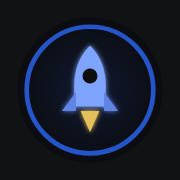
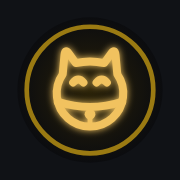
feat: Stonks becomes Maneki
The site, card and docs carry the new name and brand: the maneki-neko bell emblem as favicon, header mark and touch icon; Classic gold in the Gilded style (a metallic gradient for primary actions, gold text on dark, a warm ivory light theme with gold text at 4.6:1); conviction dots in plain ink so gold keeps its meaning on the Buy up to level. Colour meanings on the dashboard are unchanged.

Ready for the repo rename (stonks -> maneki, stonks-data -> maneki-data): the pipeline finds the data repo as ../maneki-data or, in an environment that still clones the old name, ../stonks-data; MANEKI_DATA_DIR and STONKS_DATA_DIR both work. Kept on purpose, with comments: the storage keys (devices stay unlocked), the encryption check value and the STONKS_DASHBOARD_KEY variable.

Claude-Session: https://claude.ai/code/session_01UvKpmv3rzbh6sJ3ikqRtiU

Changed region(s): [[0.1111, 0.1111, 0.8889, 0.8889]]

diff --git a/site/src/App.tsx b/site/src/App.tsx
@@ -38,9 +38,9 @@ function Lock({ keyinfo, onUnlock }: { keyinfo: KeyInfo; onUnlock: (key: CryptoK
   return (
     <div className="mx-auto mt-6 grid max-w-5xl items-center gap-10 lg:mt-16 lg:grid-cols-[1fr_22rem]">
       <div>
-        <img src={mark} alt="" className="mb-6 h-28 w-28 drop-shadow-[0_0_36px_rgba(126,164,255,0.45)] lg:h-36 lg:w-36" />
+        <img src={mark} alt="" className="mb-6 h-28 w-28 drop-shadow-[0_0_36px_rgba(241,194,95,0.45)] lg:h-36 lg:w-36" />
         <p className="text-xs font-extrabold uppercase tracking-[0.12em] text-accent">Private · encrypted in your browser</p>
-        <h2 className="mt-3 text-4xl font-extrabold leading-[1.05] tracking-tight lg:text-6xl">Ston<span className="text-accent">ks</span>: a daily momentum scan.</h2>
+        <h2 className="mt-3 text-4xl font-extrabold leading-[1.05] tracking-tight lg:text-6xl">Mane<span className="text-accent">ki</span>: a daily momentum scan.</h2>
         <p className="mt-5 max-w-xl text-lg text-muted">Every morning an agent scans the S&amp;P 500 and 400 for breakouts from tight ranges and pullbacks to rising averages, and publishes the candidates with stops, entries and targets.</p>
       </div>
       <form onSubmit={(ev) => void submit(ev)} className="flex flex-col gap-3 rounded-2xl border border-line bg-surface p-5">
@@ -52,7 +52,7 @@ function Lock({ keyinfo, onUnlock }: { keyinfo: KeyInfo; onUnlock: (key: CryptoK
         <input type="password" autoComplete="off" required aria-label="Unlock link or key" placeholder="Paste your unlock link"
           value={value} onChange={(e) => setValue(e.target.value)}
           className="rounded-xl border border-line bg-bg px-3 py-3 text-base text-ink" />
-        <button type="submit" className="min-h-12 rounded-xl bg-accent font-bold text-on-accent">Unlock</button>
+        <button type="submit" className="min-h-12 rounded-xl bg-gilded font-bold text-on-accent shadow-[0_6px_18px_rgba(241,194,95,0.35)]">Unlock</button>
         <p role="status" className="min-h-5 text-sm text-bad">{status}</p>
       </form>
     </div>
@@ -194,7 +194,7 @@ export default function App() {
       <header className="sticky top-0 z-20 -mx-4 mb-4 flex items-center gap-3 border-b border-line bg-bg px-4 py-2 lg:-mx-6 lg:mb-6 lg:px-6">
         <img src={mark} alt="" className="h-8 w-8 shrink-0" />
         <div className="min-w-0 lg:min-w-44">
-          <h1 className="text-base font-extrabold leading-tight">Ston<span className="text-accent">ks</span></h1>
+          <h1 className="text-base font-extrabold leading-tight">Mane<span className="text-accent">ki</span></h1>
           {subtitle && <p className="overflow-hidden text-ellipsis whitespace-nowrap text-xs text-muted">{subtitle}</p>}
         </div>
         {phase === "ready" && index && <TabBar index={index} active={active} date={dayDate} />}

diff --git a/site/src/styles.css b/site/src/styles.css
@@ -3,14 +3,14 @@
 /* Design tokens. Tailwind v4 exposes these as utilities (bg-surface, text-muted, ...);
    dark mode swaps the variables, so components never need dark: variants. */
 @theme {
-  --color-bg: #f4f5f7;
-  --color-surface: #ffffff;
-  --color-surface-2: #eff1f4;
-  --color-ink: #15171c;
-  --color-muted: #5f6775;
-  --color-line: #e1e4e9;
-  --color-accent: #2456c9;
-  --color-on-accent: #ffffff;
+  --color-bg: #fbf6ea;
+  --color-surface: #fffdf7;
+  --color-surface-2: #f5eedc;
+  --color-ink: #1c1712;
+  --color-muted: #6e6455;
+  --color-line: #ece2c9;
+  --color-accent: #946709;
+  --color-on-accent: #1a1206;
   --color-good: #12733a;
   --color-good-bg: #e2f3e8;
   --color-warn: #8a5a00;
@@ -33,8 +33,8 @@
     --color-ink: #e7e9ee;
     --color-muted: #9aa2b1;
     --color-line: #2b3039;
-    --color-accent: #7ea4ff;
-    --color-on-accent: #0e1014;
+    --color-accent: #f1c25f;
+    --color-on-accent: #1a1206;
     --color-good: #5fd08f;
     --color-good-bg: #15301f;
     --color-warn: #f1c25f;
@@ -54,8 +54,8 @@
   --color-ink: #e7e9ee;
   --color-muted: #9aa2b1;
   --color-line: #2b3039;
-  --color-accent: #7ea4ff;
-  --color-on-accent: #0e1014;
+  --color-accent: #f1c25f;
+  --color-on-accent: #1a1206;
   --color-good: #5fd08f;
   --color-good-bg: #15301f;
   --color-warn: #f1c25f;
@@ -65,6 +65,13 @@
   --color-risk: #ff7b70;
   --color-chase: #e3c05a;
   --color-reward: #4cc983;
+}
+
+/* Maneki's gilded fill: a metallic gold gradient for primary actions, the same in both themes
+   (it carries dark text). Plain `bg-accent` stays the fallback underneath it. */
+@utility bg-gilded {
+  background-color: var(--color-accent);
+  background-image: linear-gradient(135deg, #f9e6bd 0%, #f1c25f 38%, #e19f14 72%, #f5d48e 100%);
 }
 
 @layer base {

diff --git a/tests/crypto.test.ts b/tests/crypto.test.ts
@@ -31,6 +31,8 @@ test("generated keys are 32-byte base64url and validate", () => {
 
 test("extractKeyText accepts a bare key, an unlock link, or a fragment", () => {
   assert.equal(extractKeyText(KEY), KEY);
+  assert.equal(extractKeyText(`https://skathio.github.io/maneki/#k=${KEY}`), KEY);
+  // Unlock links saved before the rename still carry the key.
   assert.equal(extractKeyText(`https://skathio.github.io/stonks/#k=${KEY}`), KEY);
   assert.equal(extractKeyText(`#k=${KEY}`), KEY);
   assert.equal(extractKeyText(`  ${KEY}\n`), KEY);
@@ -80,7 +82,7 @@ test("keyinfo check verifies only the current key", async () => {
 });
 
 async function fixture() {
-  const root = await mkdtemp(join(tmpdir(), "stonks-enc-"));
+  const root = await mkdtemp(join(tmpdir(), "maneki-enc-"));
   const src = join(root, "dashboard");
   await mkdir(join(src, "days"), { recursive: true });
   await writeFile(join(src, "index.json"), JSON.stringify({ latest: "2026-10-29", days: ["2026-10-29"] }));

diff --git a/site/index.html b/site/index.html
@@ -4,14 +4,14 @@
   <meta charset="utf-8">
   <meta name="viewport" content="width=device-width, initial-scale=1, viewport-fit=cover">
   <meta name="robots" content="noindex, nofollow">
-  <meta name="theme-color" content="#f4f5f7" media="(prefers-color-scheme: light)">
+  <meta name="theme-color" content="#fbf6ea" media="(prefers-color-scheme: light)">
   <meta name="theme-color" content="#101216" media="(prefers-color-scheme: dark)">
   <meta http-equiv="Content-Security-Policy"
         content="default-src 'none'; script-src 'self'; style-src 'self'; connect-src 'self'; img-src 'self' data:; base-uri 'none'; form-action 'none'">
   <meta name="referrer" content="no-referrer">
   <link rel="icon" type="image/svg+xml" href="./favicon.svg">
   <link rel="apple-touch-icon" href="./apple-touch-icon.png">
-  <title>Stonks Daily Scan</title>
+  <title>Maneki · daily momentum scan</title>
 </head>
 <body>
   <div id="root"></div>

diff --git a/site/src/components/Record.tsx b/site/src/components/Record.tsx
@@ -95,7 +95,7 @@ function PickTable({ picks }: { picks: Pick[] }) {
                 <ExtLink href={tradingViewUrl(p.ticker)} className="font-extrabold text-ink no-underline hover:text-accent hover:underline">{p.ticker}</ExtLink>
               </td>
               <td className={`${TD} whitespace-nowrap`}>{setupLabel(p.setup)}</td>
-              <td className={`${TD} whitespace-nowrap tracking-[2px] text-accent`} aria-label={`Conviction ${p.conviction} of 5`}>{convictionDots(p.conviction)}</td>
+              <td className={`${TD} whitespace-nowrap tracking-[2px] text-ink`} aria-label={`Conviction ${p.conviction} of 5`}>{convictionDots(p.conviction)}</td>
               <td className={`${TD} whitespace-nowrap ${STATUS_TONE[p.status] ?? "text-muted"}`} title={statusLabel(p.status)}>
                 {statusLabel(p.status).replace(/ \(.*\)$/, "")}
               </td>

diff --git a/site/src/components/ui.tsx b/site/src/components/ui.tsx
@@ -48,7 +48,7 @@ export function ExtLink({ href, className = "", children }: LinkProps) {
 
 export function Button({ href, primary = false, className = "", children }: LinkProps & { primary?: boolean }) {
   const cls = `inline-flex min-h-11 items-center justify-center gap-1.5 rounded-xl px-4 text-sm font-semibold no-underline transition-colors ${
-    primary ? "bg-accent text-on-accent hover:opacity-90" : "border border-line bg-surface text-ink hover:bg-surface-2"} ${className}`;
+    primary ? "bg-gilded text-on-accent hover:opacity-90" : "border border-line bg-surface text-ink hover:bg-surface-2"} ${className}`;
   return <ExtLink href={href} className={cls}>{children}</ExtLink>;
 }
 

diff --git a/site/src/components/Today.tsx b/site/src/components/Today.tsx
@@ -182,7 +182,7 @@ function PickCard({ c, axis }: { c: Candidate; axis: [number, number] }) {
           </div>
           <p className="mt-1 text-xs text-muted">{setupLabel(c.setup)} in {c.sector}</p>
         </div>
-        <span className="whitespace-nowrap pt-1 text-sm tracking-[2px] text-accent" role="img" aria-label={`Conviction ${c.conviction} of 5`}>
+        <span className="whitespace-nowrap pt-1 text-sm tracking-[2px] text-ink" role="img" aria-label={`Conviction ${c.conviction} of 5`}>
           {convictionDots(c.conviction)}
         </span>
       </header>

diff --git a/tools/new-dashboard-key.ts b/tools/new-dashboard-key.ts
@@ -12,7 +12,8 @@
 // =============================================================================
 import { generateKeyText } from "../site/src/lib/crypto.ts";
 
-const site = (process.argv[2] || "https://skathio.github.io/stonks/").replace(/#.*$/, "");
+const site = (process.argv[2] || "https://skathio.github.io/maneki/").replace(/#.*$/, "");
+// STONKS_DASHBOARD_KEY keeps its pre-rename name: the cloud environment already holds it under it.
 const key = generateKeyText();
 console.log(`STONKS_DASHBOARD_KEY=${key}`);
 console.log(`Unlock link: ${site}#k=${key}`);

diff --git a/tools/encrypt-dashboard.ts b/tools/encrypt-dashboard.ts
@@ -1,6 +1,6 @@
 #!/usr/bin/env node
 // =============================================================================
-// Encrypt the plaintext dashboard payload (private stonks-data/dashboard/)
+// Encrypt the plaintext dashboard payload (private maneki-data/dashboard/)
 // into the public site (site/data/). Called by `pipeline publish`.
 //
 //   STONKS_DASHBOARD_KEY=<43-char base64url> node tools/encrypt-dashboard.ts --src <dir> --dst site/data

diff --git a/site/src/lib/crypto.ts b/site/src/lib/crypto.ts
@@ -15,6 +15,7 @@
 // =============================================================================
 export const FORMAT_VERSION = 1;
 export const KEY_BYTES = 32;
+// Kept from before the rename to Maneki: changing it would lock every device out of already-published data.
 export const CHECK_PLAINTEXT = "stonks-dashboard-ok";
 export const CHECK_AAD = "keyinfo";
 import type { Envelope, KeyInfo } from "./types.ts";

diff --git a/site/src/lib/vault.ts b/site/src/lib/vault.ts
@@ -8,6 +8,7 @@
 import { decryptJson, extractKeyText, importKeyText, verifyKey } from "./crypto.ts";
 import type { Envelope, KeyInfo } from "./types.ts";
 
+// Kept from before the rename to Maneki: devices that already hold the key stay unlocked (storage is per origin, not per path).
 const KEY_STORE = "stonks.dashboardKey";
 
 function storage(): Storage | null {

diff --git a/vite.config.ts b/vite.config.ts
@@ -6,7 +6,7 @@ import { defineConfig } from "vite";
 
 export default defineConfig({
   root: "site",
-  base: "./", // GitHub Pages serves under /stonks/
+  base: "./", // GitHub Pages serves under /maneki/
   publicDir: false,
   plugins: [react(), tailwindcss()],
   build: { outDir: "../dist", emptyOutDir: true, sourcemap: false },
